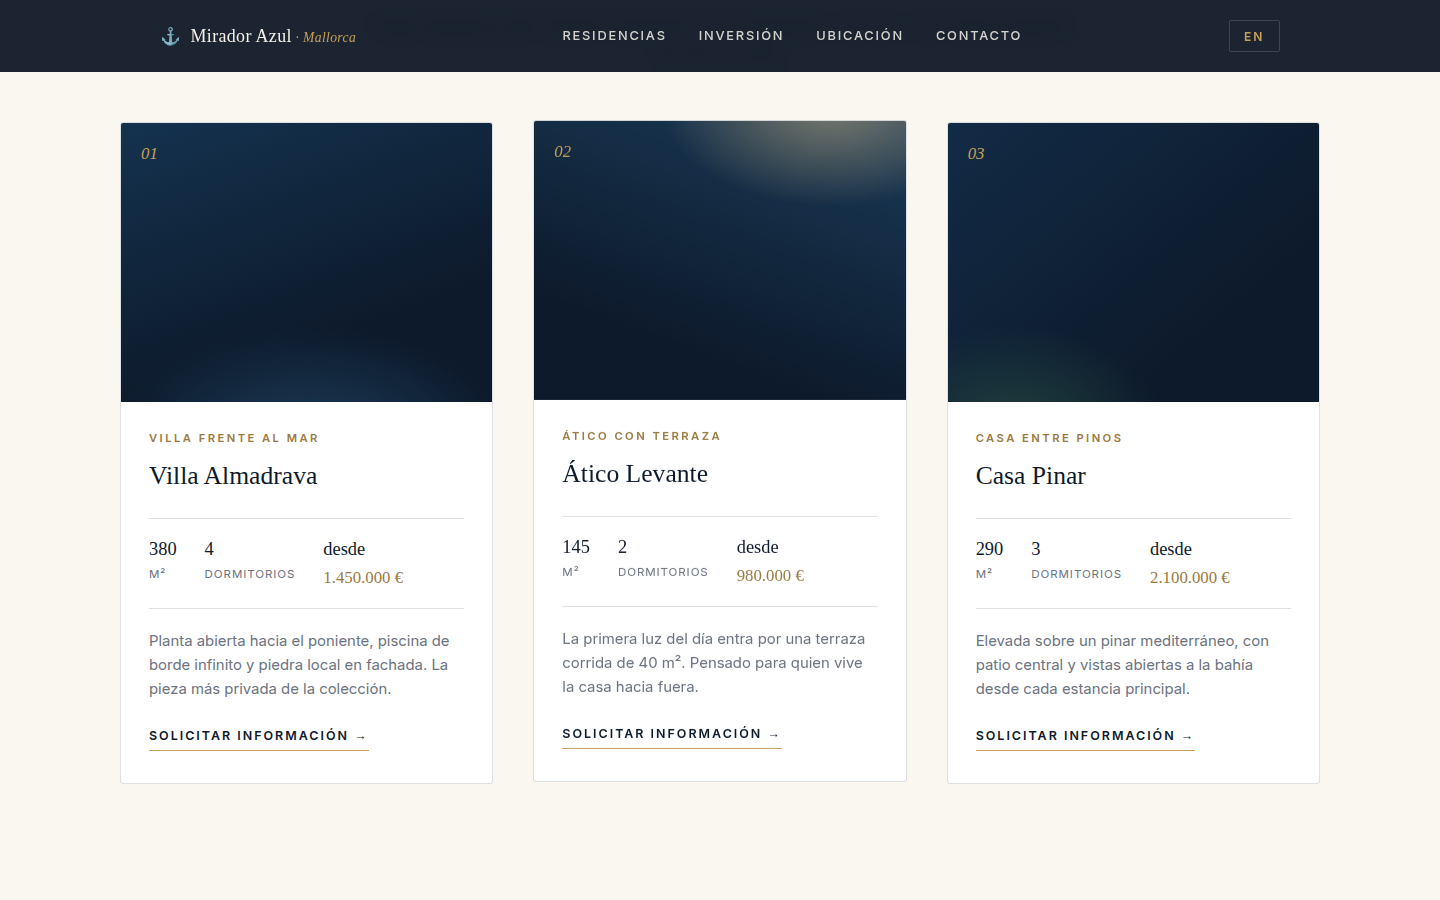
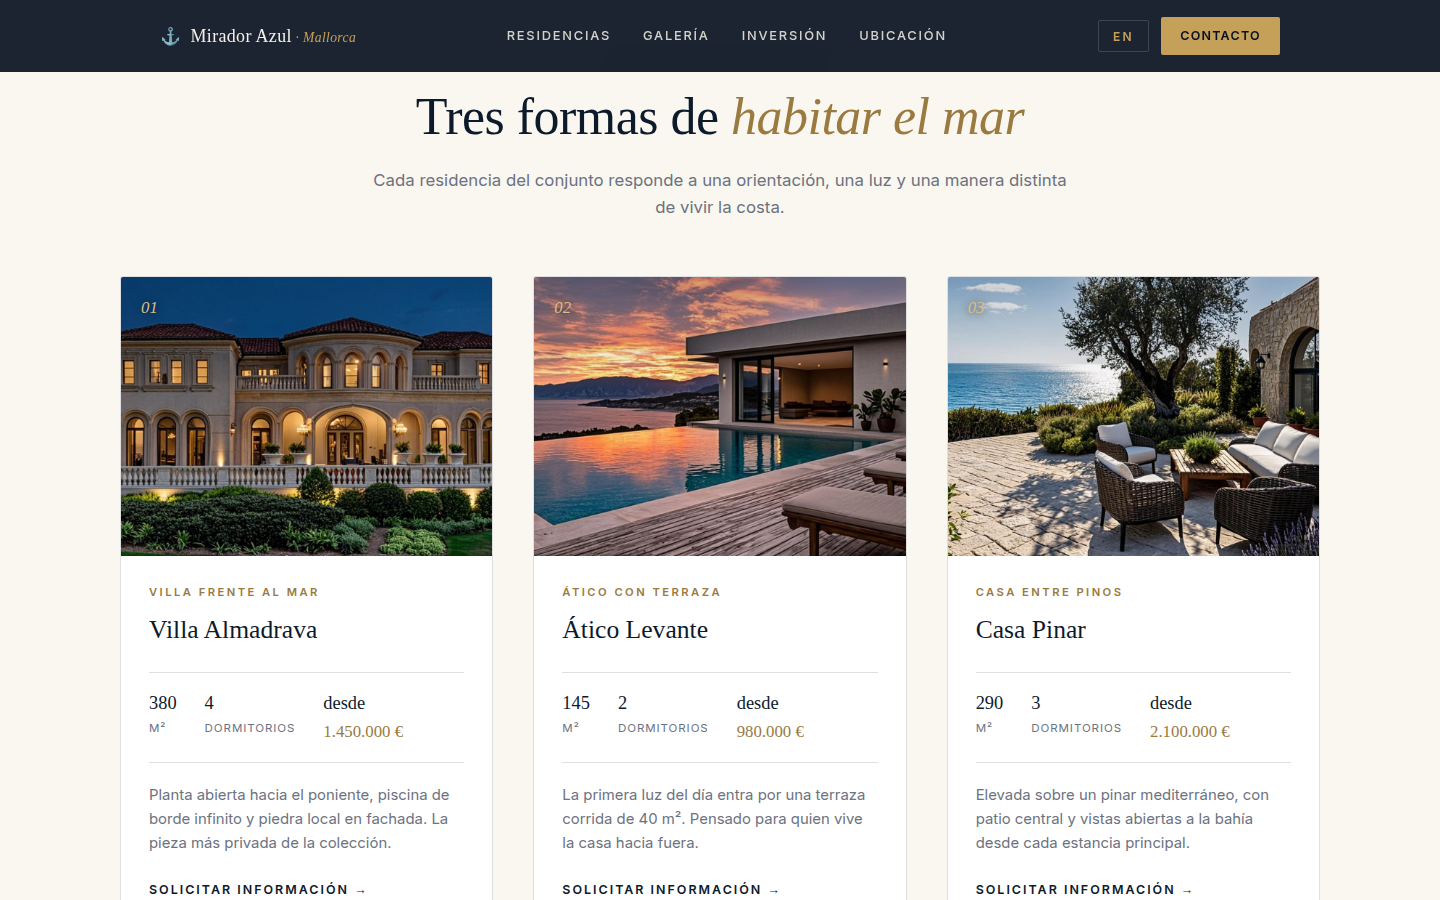
chore(showcase): replace generic screenshots with real demo captures
Regenerate assets/screenshots from the running demo build:
01-hero (image-driven hero), 02-residences, 03-gallery (new),
04-lead-capture, 05-mobile (390x844). Update capture tables and
alt text in README.md and README.en.md to match.

diff --git a/README.md b/README.md
@@ -102,13 +102,17 @@ Más detalle en [docs/architecture.md](docs/architecture.md).
 
 ## Capturas (datos sintéticos)
 
-| Hero premium | Residencias |
+| Hero con imagen real | Residencias |
 |---|---|
-| ![Hero premium](assets/screenshots/01-hero.png) | ![Residencias](assets/screenshots/02-residences.png) |
+| ![Hero con imagen de fondo, titular serif y doble CTA](assets/screenshots/01-hero.png) | ![Tarjetas de residencias con imágenes reales](assets/screenshots/02-residences.png) |
 
-| Formulario de captación | Experiencia móvil |
+| Galería de imágenes | Formulario de captación |
 |---|---|
-| ![Formulario de captación](assets/screenshots/03-lead-capture.png) | ![Experiencia móvil](assets/screenshots/04-mobile.png) |
+| ![Galería con rejilla adaptable de imágenes](assets/screenshots/03-gallery.png) | ![Formulario de captación junto a imagen del puerto](assets/screenshots/04-lead-capture.png) |
+
+| Experiencia móvil |
+|---|
+| ![Experiencia móvil del hero](assets/screenshots/05-mobile.png) |
 
 Las capturas proceden de la demo interactiva de este repositorio, que funciona con datos ficticios; no proceden del entorno operativo.
 

diff --git a/README.en.md b/README.en.md
@@ -102,13 +102,17 @@ More detail in [docs/architecture.md](docs/architecture.md).
 
 ## Screenshots (synthetic data)
 
-| Premium hero | Residences |
+| Image-driven hero | Residences |
 |---|---|
-| ![Premium hero](assets/screenshots/01-hero.png) | ![Residences](assets/screenshots/02-residences.png) |
+| ![Hero with real background image, serif headline and dual CTAs](assets/screenshots/01-hero.png) | ![Residence cards with real imagery](assets/screenshots/02-residences.png) |
 
-| Lead capture form | Mobile experience |
+| Image gallery | Lead capture form |
 |---|---|
-| ![Lead capture form](assets/screenshots/03-lead-capture.png) | ![Mobile experience](assets/screenshots/04-mobile.png) |
+| ![Adaptive-span image gallery grid](assets/screenshots/03-gallery.png) | ![Lead capture form beside marina image](assets/screenshots/04-lead-capture.png) |
+
+| Mobile experience |
+|---|
+| ![Mobile hero experience](assets/screenshots/05-mobile.png) |
 
 The screenshots come from the interactive demo in this repository, which runs on fictional data; they do not come from the operational environment.
 
